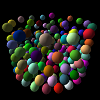
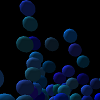
added liquid3d as main post

diff --git a/_site/projects/liquid3d/liquid3d.js b/_site/projects/liquid3d/liquid3d.js
@@ -60,6 +60,10 @@ function draw() {
 		balls[i].update();
 	}
 
+	for( var i in balls ) {
+		balls[i].updatePos();
+	}
+
 	a += .01;
 
 	camera.position.z = 15;
@@ -78,12 +82,15 @@ function onWindowResize() {
 }
 
 var ballForceVec = new THREE.Vector3();
+var speed = new THREE.Vector3();
+var accel = new THREE.Vector3();
 
 var Ball = function() {
 	this.pos = new THREE.Vector3( randomf(-10,10),randomf(-10,10),randomf(0,10) );
-	this.speed = new THREE.Vector3( 0,0,0 );
+	this.lastPos = new THREE.Vector3().copy( this.pos );
+	this.nextPos = new THREE.Vector3();
 
-	var color = new THREE.Color( Math.random(), Math.random(), Math.random() );
+	var color = new THREE.Color( randomf(0,.2),randomf(0,.6),randomf(.5,1) );
 	var material = new THREE.MeshLambertMaterial({
 		color: color,
 		ambient: color
@@ -97,9 +104,13 @@ var Ball = function() {
 	scene.add( this.geometry );
 
 	this.update = function() {
-		this.geometry.position.set( this.pos.x, this.pos.y, this.pos.z );
+		this.geometry.position.copy( this.pos );
 
-		this.speed.z -= .01;
+		speed.subVectors( this.pos, this.lastPos );
+
+		accel.set( 0, 0, 0 );
+
+		accel.z -= .01;
 
 		for( var i in balls ) {
 			var ball = balls[i];
@@ -107,40 +118,55 @@ var Ball = function() {
 
 			ballForceVec.subVectors( ball.pos, this.pos );
 			var length = ballForceVec.length();
-			var force = .5 / (length*length*length*length);
-			if( force > .05 ) force = .05;
+			var force = 0;
+			if( length < 2 ) {
+				force = .5 / (length*length*length*length);
+				if( force > .05 ) force = .05;
+			}
+			else
+			{
+				force = -.01 / (length*length*length);
+				if( force < -.00005 ) force = -.00005;
+			}
 			ballForceVec.divideScalar( length );
 			ballForceVec.multiplyScalar( force );
-			this.speed.sub( ballForceVec );
+			accel.sub( ballForceVec );
 		}
-
-		this.speed.multiplyScalar( .97 );
-
-		this.pos.add( this.speed );
 
 		if( this.pos.z < 0 ) {
 			var floorRepel = (this.pos.z*this.pos.z) * .1;
-			this.speed.z += floorRepel;
+			accel.z += floorRepel;
 		}
-
-		/*
-		if( this.pos.x > 10 ) this.pos.x = 10;
-		if( this.pos.x < -10 ) this.pos.x = -10;
-		if( this.pos.y > 10 ) this.pos.y = 10;
-		if( this.pos.y < -10 ) this.pos.y = -10;
-		*/
 
 		var x = this.pos.x*this.pos.x;
 		var y = this.pos.y*this.pos.y;
 		var l = Math.sqrt( x+y );
+		/*
 		if( l > 10 ) {
 			this.speed.x += this.pos.x * -.01 * (l-10);
 			this.speed.y += this.pos.y * -.01 * (l-10);
 		}
+		*/
 		if( pressed ) {
-			this.speed.x += .1/l * (this.pos.x);
-			this.speed.y += .1/l * (this.pos.y);
+			accel.x += .1/l * (this.pos.x);
+			accel.y += .1/l * (this.pos.y);
 		}
+
+		speed.multiplyScalar( .97 );
+
+		this.nextPos.copy( this.pos );
+		this.nextPos.add( speed );
+		this.nextPos.add( accel );
+
+		if( this.nextPos.x > 10 ) this.nextPos.x = 10;
+		if( this.nextPos.x < -10 ) this.nextPos.x = -10;
+		if( this.nextPos.y > 10 ) this.nextPos.y = 10;
+		if( this.nextPos.y < -10 ) this.nextPos.y = -10;
+	};
+
+	this.updatePos = function() {
+		this.lastPos.copy( this.pos );
+		this.pos.copy( this.nextPos );
 	};
 }
 

diff --git a/projects/liquid3d/liquid3d.js b/projects/liquid3d/liquid3d.js
@@ -60,6 +60,10 @@ function draw() {
 		balls[i].update();
 	}
 
+	for( var i in balls ) {
+		balls[i].updatePos();
+	}
+
 	a += .01;
 
 	camera.position.z = 15;
@@ -78,12 +82,15 @@ function onWindowResize() {
 }
 
 var ballForceVec = new THREE.Vector3();
+var speed = new THREE.Vector3();
+var accel = new THREE.Vector3();
 
 var Ball = function() {
 	this.pos = new THREE.Vector3( randomf(-10,10),randomf(-10,10),randomf(0,10) );
-	this.speed = new THREE.Vector3( 0,0,0 );
+	this.lastPos = new THREE.Vector3().copy( this.pos );
+	this.nextPos = new THREE.Vector3();
 
-	var color = new THREE.Color( Math.random(), Math.random(), Math.random() );
+	var color = new THREE.Color( randomf(0,.2),randomf(0,.6),randomf(.5,1) );
 	var material = new THREE.MeshLambertMaterial({
 		color: color,
 		ambient: color
@@ -97,9 +104,13 @@ var Ball = function() {
 	scene.add( this.geometry );
 
 	this.update = function() {
-		this.geometry.position.set( this.pos.x, this.pos.y, this.pos.z );
+		this.geometry.position.copy( this.pos );
 
-		this.speed.z -= .01;
+		speed.subVectors( this.pos, this.lastPos );
+
+		accel.set( 0, 0, 0 );
+
+		accel.z -= .01;
 
 		for( var i in balls ) {
 			var ball = balls[i];
@@ -107,40 +118,55 @@ var Ball = function() {
 
 			ballForceVec.subVectors( ball.pos, this.pos );
 			var length = ballForceVec.length();
-			var force = .5 / (length*length*length*length);
-			if( force > .05 ) force = .05;
+			var force = 0;
+			if( length < 2 ) {
+				force = .5 / (length*length*length*length);
+				if( force > .05 ) force = .05;
+			}
+			else
+			{
+				force = -.01 / (length*length*length);
+				if( force < -.00005 ) force = -.00005;
+			}
 			ballForceVec.divideScalar( length );
 			ballForceVec.multiplyScalar( force );
-			this.speed.sub( ballForceVec );
+			accel.sub( ballForceVec );
 		}
-
-		this.speed.multiplyScalar( .97 );
-
-		this.pos.add( this.speed );
 
 		if( this.pos.z < 0 ) {
 			var floorRepel = (this.pos.z*this.pos.z) * .1;
-			this.speed.z += floorRepel;
+			accel.z += floorRepel;
 		}
-
-		/*
-		if( this.pos.x > 10 ) this.pos.x = 10;
-		if( this.pos.x < -10 ) this.pos.x = -10;
-		if( this.pos.y > 10 ) this.pos.y = 10;
-		if( this.pos.y < -10 ) this.pos.y = -10;
-		*/
 
 		var x = this.pos.x*this.pos.x;
 		var y = this.pos.y*this.pos.y;
 		var l = Math.sqrt( x+y );
+		/*
 		if( l > 10 ) {
 			this.speed.x += this.pos.x * -.01 * (l-10);
 			this.speed.y += this.pos.y * -.01 * (l-10);
 		}
+		*/
 		if( pressed ) {
-			this.speed.x += .1/l * (this.pos.x);
-			this.speed.y += .1/l * (this.pos.y);
+			accel.x += .1/l * (this.pos.x);
+			accel.y += .1/l * (this.pos.y);
 		}
+
+		speed.multiplyScalar( .97 );
+
+		this.nextPos.copy( this.pos );
+		this.nextPos.add( speed );
+		this.nextPos.add( accel );
+
+		if( this.nextPos.x > 10 ) this.nextPos.x = 10;
+		if( this.nextPos.x < -10 ) this.nextPos.x = -10;
+		if( this.nextPos.y > 10 ) this.nextPos.y = 10;
+		if( this.nextPos.y < -10 ) this.nextPos.y = -10;
+	};
+
+	this.updatePos = function() {
+		this.lastPos.copy( this.pos );
+		this.pos.copy( this.nextPos );
 	};
 }
 

diff --git a/_site/css/main.css b/_site/css/main.css
@@ -1,7 +1,7 @@
 body,html {
 	margin: 0;
 	padding: 0;
-	
+
 	height: 100%;
 	background-color: #000000;
 	font-family: Futura, "Trebuchet MS", Arial, sans-serif;
@@ -57,7 +57,7 @@ a:hover {
 	background: -ms-linear-gradient(top,  rgba(255,255,255,0) 0%,rgba(68,68,68,1) 100%); /* IE10+ */
 	background: linear-gradient(top,  rgba(255,255,255,0) 0%,rgba(68,68,68,1) 100%); /* W3C */
 	filter: progid:DXImageTransform.Microsoft.gradient( startColorstr='#00ffffff', endColorstr='#444444',GradientType=0 ); /* IE6-9 */
-	
+
 	width: 1px;
 	height: 50%;
 }
@@ -103,7 +103,7 @@ a:hover {
 	background: -ms-linear-gradient(left, rgba(255,255,255,0) 0%,rgba(68,68,68,1) 100%); /* IE10+ */
 	background: linear-gradient(left, rgba(255,255,255,0) 0%,rgba(68,68,68,1) 100%); /* W3C */
 	filter: progid:DXImageTransform.Microsoft.gradient( startColorstr='#00ffffff', endColorstr='#444444',GradientType=1 ); /* IE6-9 */
-	
+
 	height: 1px;
 }
 
@@ -143,6 +143,11 @@ a:hover {
 	margin-top: 20px;
 	margin-right: 20px;
 	border: 3px solid #444444;
+}
+
+.demo img {
+	width: 100px;
+	height: 100px;
 }
 
 .demoinfobox {

diff --git a/css/main.css b/css/main.css
@@ -1,7 +1,7 @@
 body,html {
 	margin: 0;
 	padding: 0;
-	
+
 	height: 100%;
 	background-color: #000000;
 	font-family: Futura, "Trebuchet MS", Arial, sans-serif;
@@ -57,7 +57,7 @@ a:hover {
 	background: -ms-linear-gradient(top,  rgba(255,255,255,0) 0%,rgba(68,68,68,1) 100%); /* IE10+ */
 	background: linear-gradient(top,  rgba(255,255,255,0) 0%,rgba(68,68,68,1) 100%); /* W3C */
 	filter: progid:DXImageTransform.Microsoft.gradient( startColorstr='#00ffffff', endColorstr='#444444',GradientType=0 ); /* IE6-9 */
-	
+
 	width: 1px;
 	height: 50%;
 }
@@ -103,7 +103,7 @@ a:hover {
 	background: -ms-linear-gradient(left, rgba(255,255,255,0) 0%,rgba(68,68,68,1) 100%); /* IE10+ */
 	background: linear-gradient(left, rgba(255,255,255,0) 0%,rgba(68,68,68,1) 100%); /* W3C */
 	filter: progid:DXImageTransform.Microsoft.gradient( startColorstr='#00ffffff', endColorstr='#444444',GradientType=1 ); /* IE6-9 */
-	
+
 	height: 1px;
 }
 
@@ -143,6 +143,11 @@ a:hover {
 	margin-top: 20px;
 	margin-right: 20px;
 	border: 3px solid #444444;
+}
+
+.demo img {
+	width: 100px;
+	height: 100px;
 }
 
 .demoinfobox {
